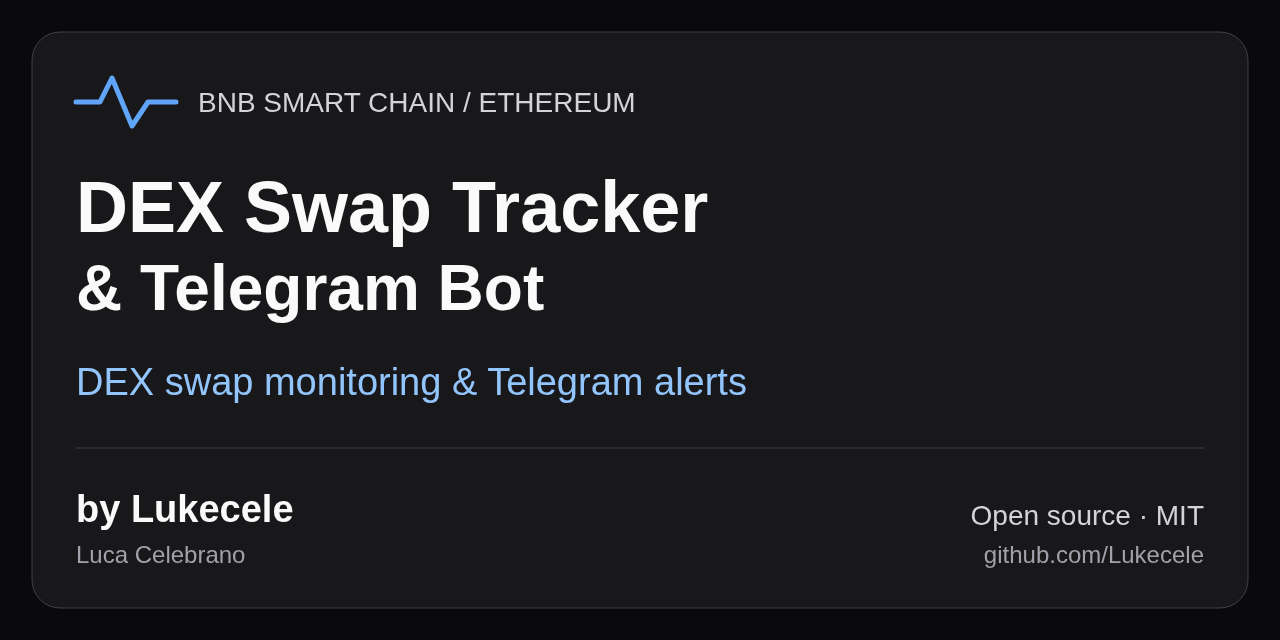
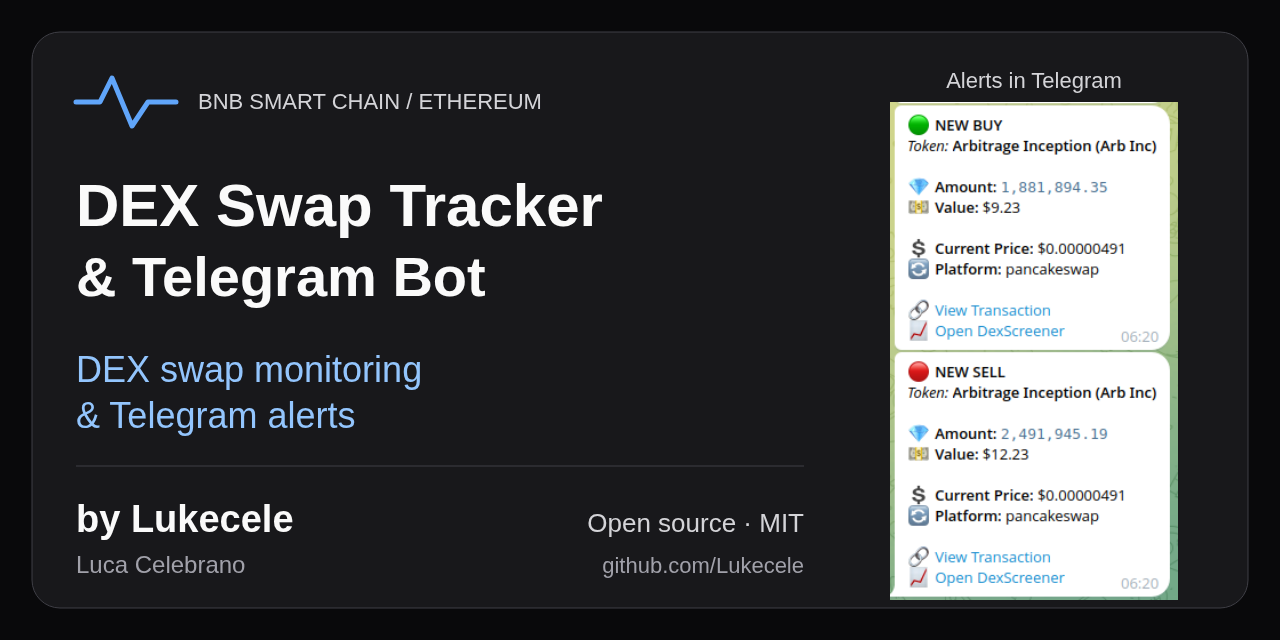
docs: showcase owner-supplied Telegram bot alerts

diff --git a/docs/project-presentation.md b/docs/project-presentation.md
@@ -24,7 +24,7 @@ Read-only HTTP checks on October 1, 2026:
 | [@ArbincMoon_bot](https://t.me/ArbincMoon_bot) | HTTP 200; Telegram landing identifies Arb Inc Moon and the bot handle. | Proposed public homepage. Live responses/delivery untested. |
 | [Community alert topic](https://t.me/arbitrageinception/80770) | HTTP 200; Telegram post landing. | Optional community link; post contents/access not verified. |
 
-No production controls were invoked, no credentials were used, and no Telegram messages were sent. Root availability and bundle inspection do not establish backend health, access control, or continuous monitoring. There is no reproducible deployment configuration in this checkout. The local empty-dashboard screenshot was removed after owner feedback; the showcase should use real Telegram bot alerts.
+No production controls were invoked, no credentials were used, and no Telegram messages were sent. Root availability and bundle inspection do not establish backend health, access control, or continuous monitoring. There is no reproducible deployment configuration in this checkout. The showcase uses a Telegram chat screenshot supplied by the owner. It is separate from the read-only endpoint checks and does not establish current delivery health.
 
 ## Repository settings
 
@@ -49,9 +49,9 @@ The replacement list respects [GitHub's topic rules](https://docs.github.com/en/
 
 ## Assets and provenance
 
-- [Social card SVG](assets/social-card.svg): editable original artwork, using the dashboard's zinc and blue palette and a simple activity trace; no external images, logos, or fonts are bundled.
+- [Social card SVG](assets/social-card.svg): editable layout using the dashboard's zinc and blue palette, with the owner-supplied Telegram screenshot embedded. Its right panel crops the first buy and sell messages without changing their contents. No external fonts or new logos are bundled.
 - [Social card PNG](assets/social-card.png): opaque 1280×640 export, under 1 MB; intended for GitHub Social preview and sharing.
-- Telegram alert screenshots: awaiting owner-supplied images or an accessible alert permalink. The topic creation message is publicly embeddable, but it is not a bot alert; no substitute screenshot is presented.
+- [Telegram alert screenshot](assets/telegram-alerts.png): original 288×683 PNG supplied by the project owner, showing buy and sell alerts in the Telegram chat. Copied unchanged; no messages or values were reconstructed. No capture date was supplied, and the pictured messages were not independently matched to live transactions.
 
 To reproduce the card, open the SVG at its native 1280×640 size in a browser and export/capture a PNG without browser chrome. The card has an opaque background and work within light and dark Markdown themes.
 

diff --git a/README.md b/README.md
@@ -23,6 +23,10 @@ Track token transfers involving DEX pools on BNB Smart Chain or Ethereum, estima
 
 ## Telegram alerts
 
+<img src="docs/assets/telegram-alerts.png" alt="Telegram chat showing Arb Inc Moon buy and sell alerts for Arbitrage Inception, with token amounts, USD values, prices, and transaction links" width="288" height="683" />
+
+*Telegram bot alerts captured in the chat. Screenshot provided by the project owner; amounts and prices reflect the captured messages.*
+
 [Open the bot](https://t.me/ArbincMoon_bot) or [visit the community alert topic](https://t.me/arbitrageinception/80770) to view notifications in Telegram. The [example below](#example-alert) illustrates the alert format.
 
 ### Administration dashboard
